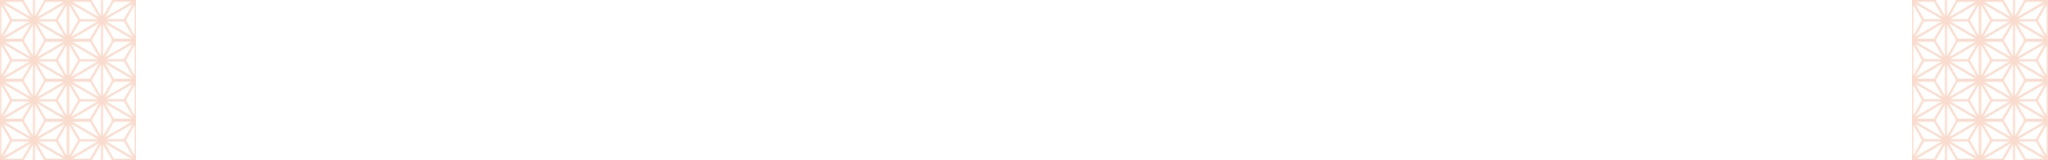
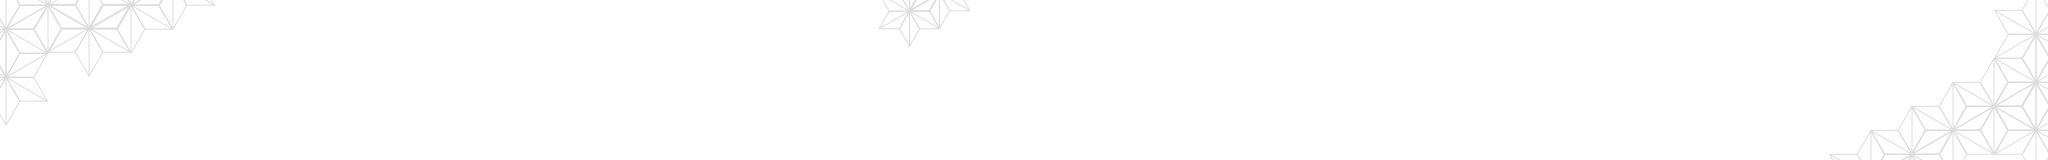
ヘッダー背景画像を追加

Changed region(s): [[0.9062, 0.0, 1.0, 1.0], [0.0, 0.0, 0.0938, 1.0], [0.4375, 0.0, 0.4688, 0.1875]]

diff --git a/css/index.css b/css/index.css
@@ -13,6 +13,12 @@ a .fa {
   background-color: #E0AE1B;
 }
 
+@media screen and (min-width: 768px) {
+  #page-header .navbar {
+    background:url(../img/header-asanoha-bg.jpg) center no-repeat; background-size: cover;
+  }
+}
+
 #page-header .navbar-brand {
   font-size: 24px;
 }
@@ -53,6 +59,10 @@ a .fa {
   padding-top: 8px;
   padding-bottom: 8px;
   font-size: 16px;
+}
+#page-header.compact .navbar-toggle {
+  margin-top: 3px;
+  margin-bottom: 3px;
 }
 
 .panel-default {
